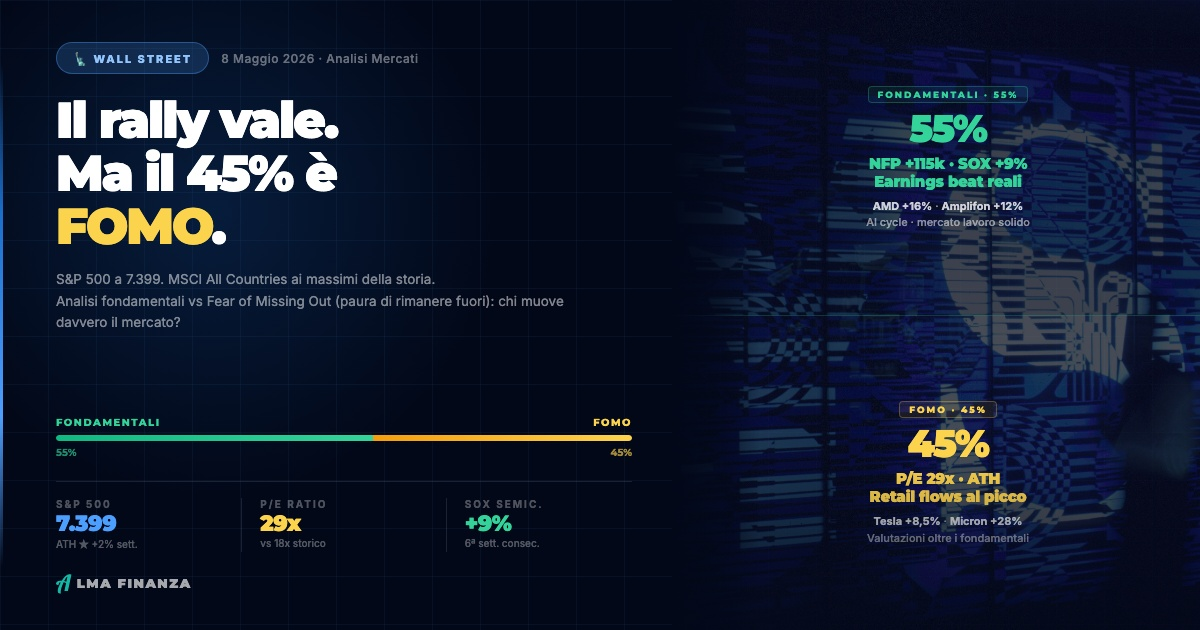
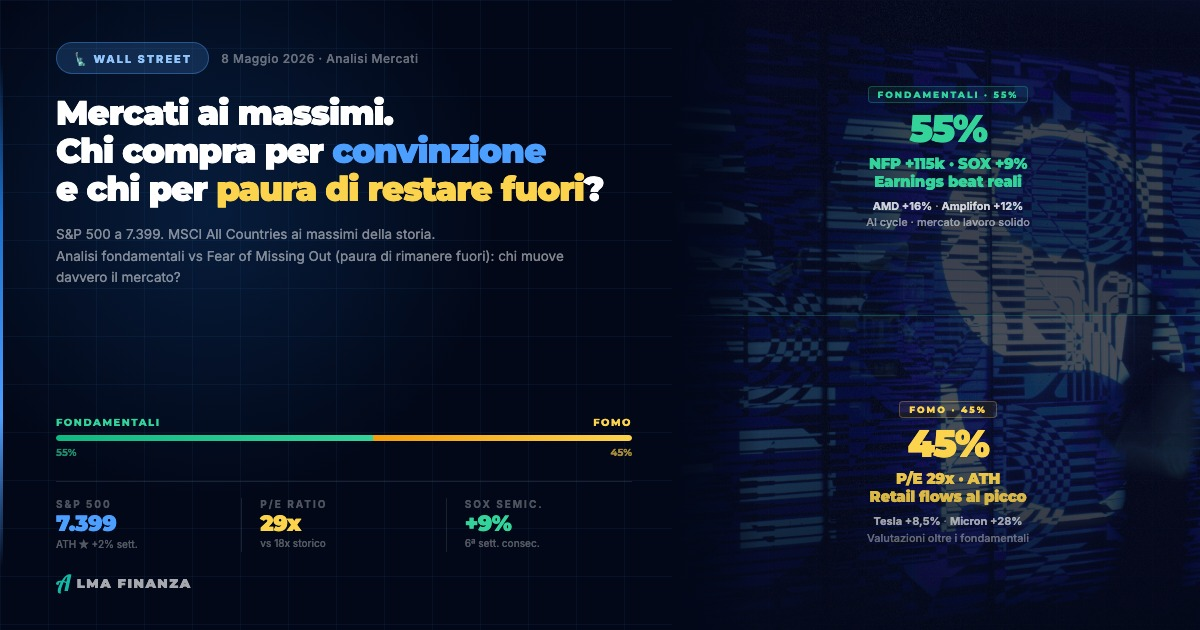
Update FOMO post image: nuovo titolo selezionato
Headline aggiornata da 'Il rally vale. Ma il 45% è FOMO.'
a 'Mercati ai massimi. Chi compra per convinzione e chi per paura di restare fuori?'
Font ridotto da 50px a 34px per le righe più lunghe.
Rigenerata post_image_fomo.jpg.

Changed region(s): [[0.0308, 0.1508, 0.5242, 0.5429]]

diff --git a/output/post_image_fomo.html b/output/post_image_fomo.html
@@ -89,11 +89,11 @@ body { font-family: 'Inter', -apple-system, 'Helvetica Neue', Arial, sans-serif;
 }
 
 .headline {
-  font-size: 50px;
+  font-size: 34px;
   font-weight: 900;
   color: #fff;
-  line-height: 1.06;
-  letter-spacing: -2px;
+  line-height: 1.12;
+  letter-spacing: -1px;
   margin-bottom: 16px;
   font-family: 'Montserrat', sans-serif;
 }
@@ -356,9 +356,9 @@ body { font-family: 'Inter', -apple-system, 'Helvetica Neue', Arial, sans-serif;
       </div>
 
       <div class="headline">
-        Il rally vale.<br>
-        Ma il 45% è<br>
-        <span class="accent-amber">FOMO</span>.
+        Mercati ai massimi.<br>
+        Chi compra per <span class="accent-blue">convinzione</span><br>
+        e chi per <span class="accent-amber">paura di restare fuori</span>?
       </div>
 
       <div class="sub">